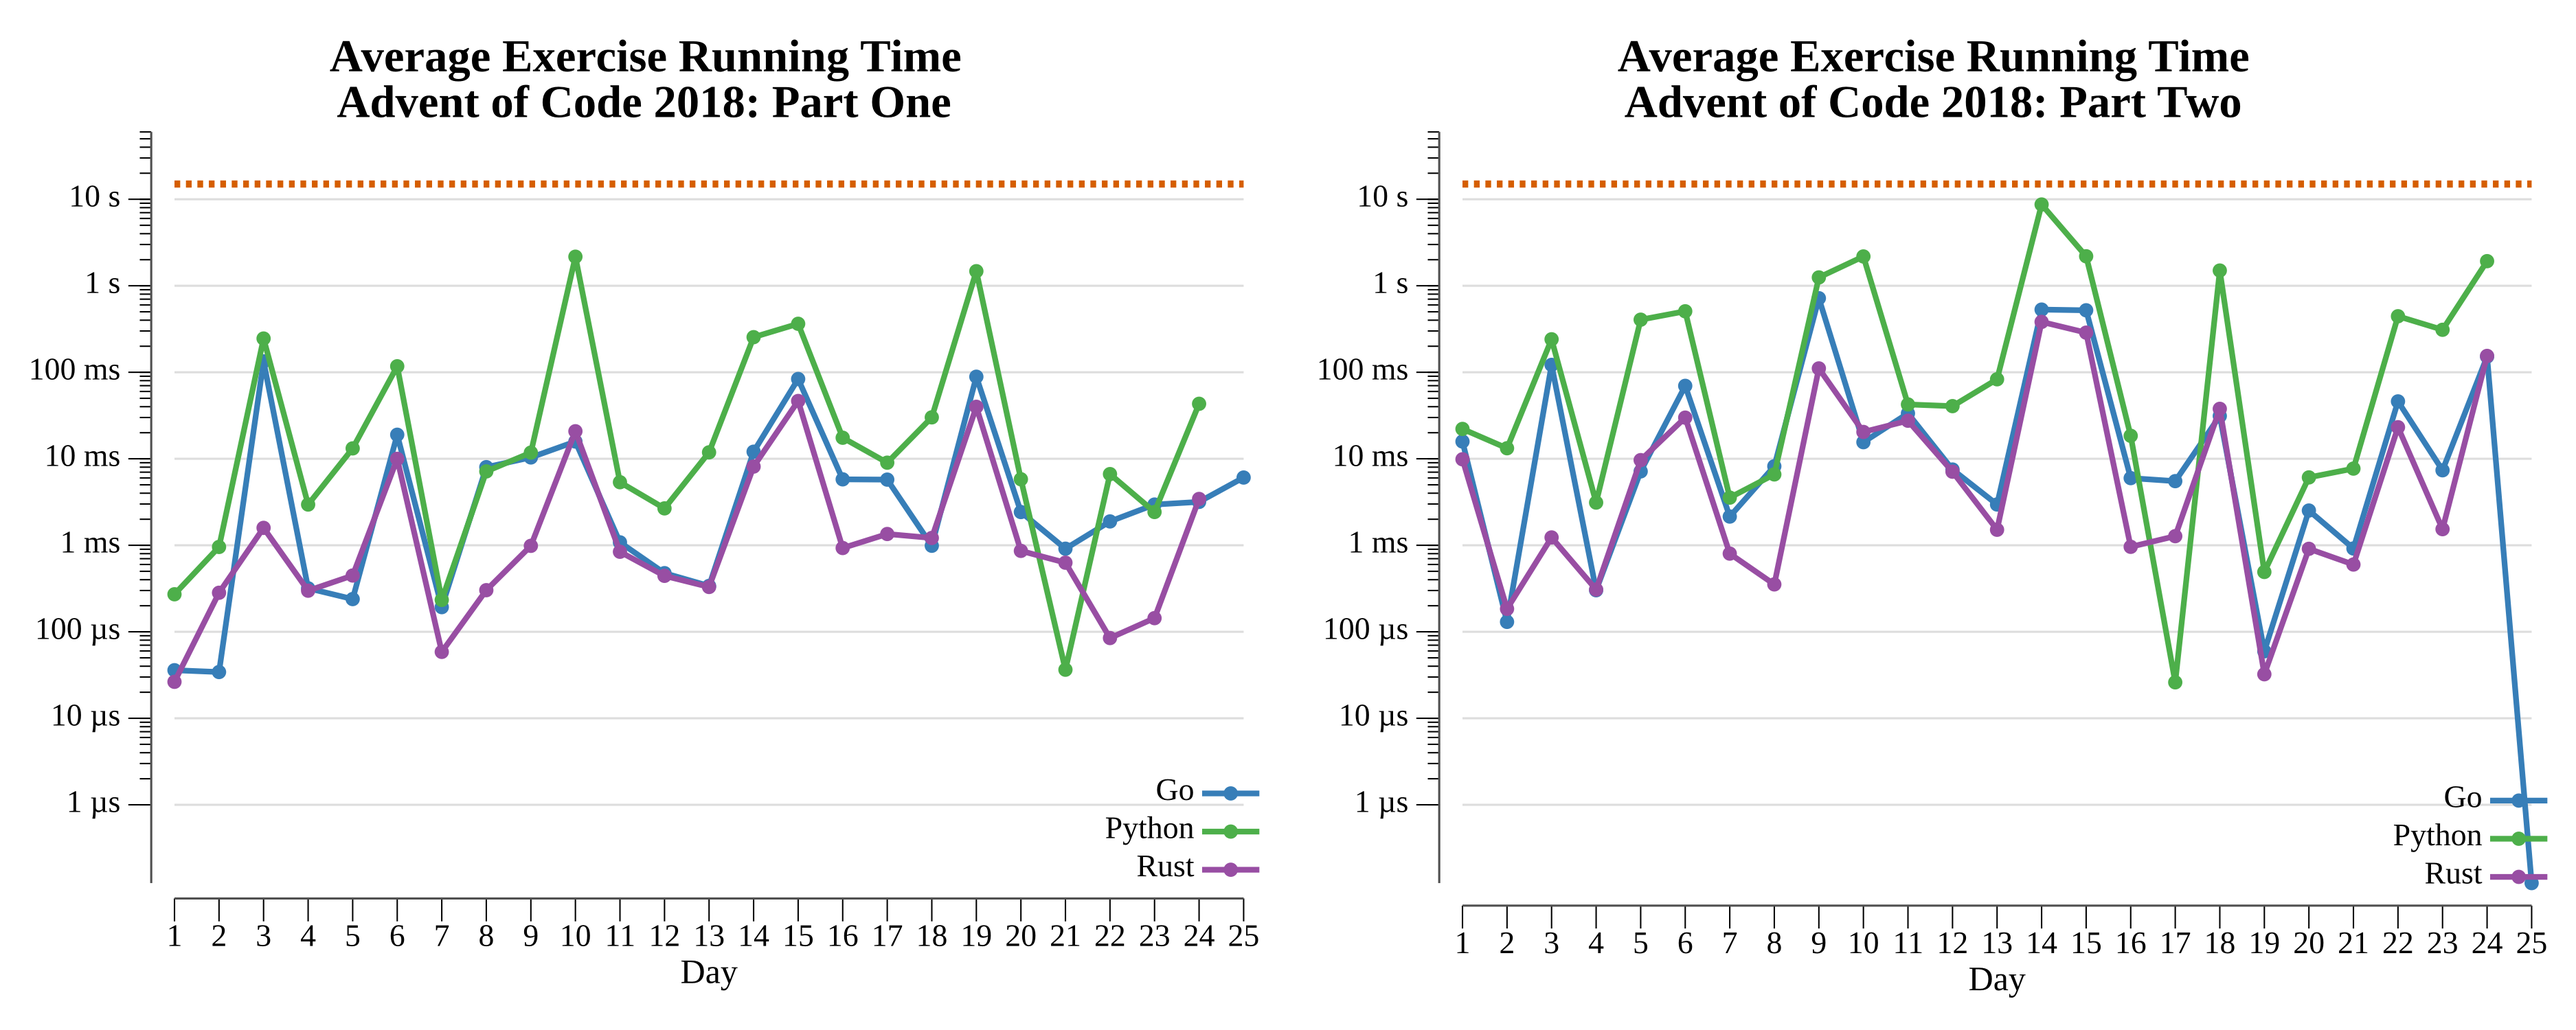
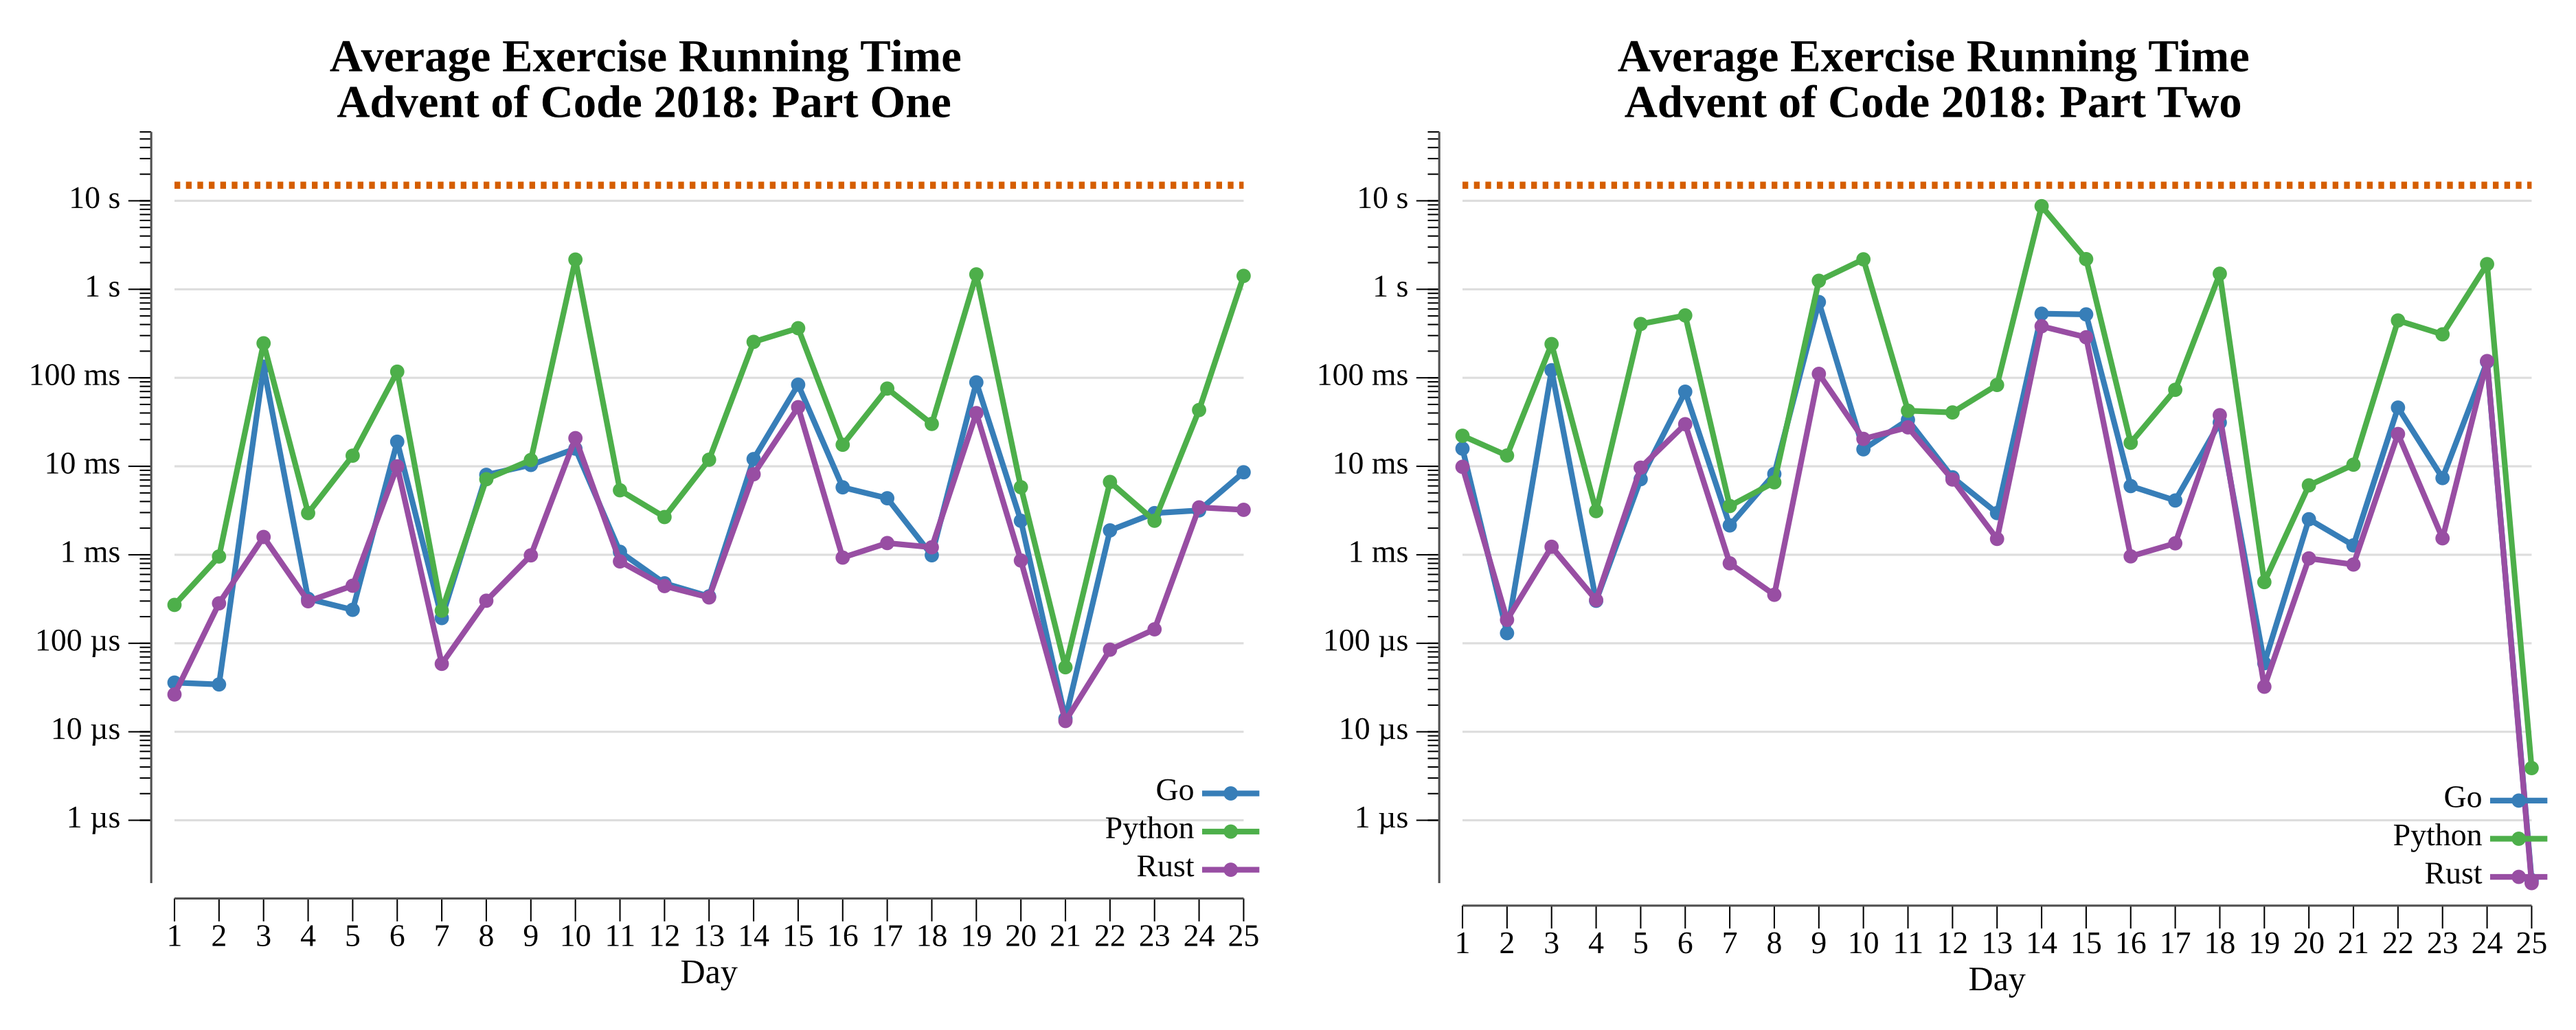
add rust and python to 2018 day 25

diff --git a/exercises/2018/25-four-DimensionalAdventure/rs/src/solution.rs b/exercises/2018/25-four-DimensionalAdventure/rs/src/solution.rs
@@ -1,0 +1,56 @@
+// Solution for Advent of Code 2018 day 25.
+
+type Point = [i32; 4];
+
+fn parse(input: &str) -> Vec<Point> {
+    input
+        .lines()
+        .filter_map(|line| {
+            let mut it = line
+                .split(',')
+                .filter_map(|s| s.trim().parse::<i32>().ok());
+            let p = [it.next()?, it.next()?, it.next()?, it.next()?];
+            Some(p)
+        })
+        .collect()
+}
+
+fn manhattan(a: &Point, b: &Point) -> i32 {
+    (0..4).map(|i| (a[i] - b[i]).abs()).sum()
+}
+
+fn find(parent: &mut [usize], mut x: usize) -> usize {
+    while parent[x] != x {
+        parent[x] = parent[parent[x]]; // path compression
+        x = parent[x];
+    }
+    x
+}
+
+// part_one counts the constellations: connected components of points where any two
+// within Manhattan distance 3 join the same group, via union-find.
+pub fn part_one(input: &str) -> String {
+    let pts = parse(input);
+    let mut parent: Vec<usize> = (0..pts.len()).collect();
+
+    for i in 0..pts.len() {
+        for j in (i + 1)..pts.len() {
+            if manhattan(&pts[i], &pts[j]) <= 3 {
+                let (ri, rj) = (find(&mut parent, i), find(&mut parent, j));
+                parent[ri] = rj;
+            }
+        }
+    }
+
+    let mut roots = std::collections::HashSet::new();
+    for i in 0..pts.len() {
+        let r = find(&mut parent, i);
+        roots.insert(r);
+    }
+    roots.len().to_string()
+}
+
+// part_two is the day 25 finale: no second puzzle, only the closing message.
+pub fn part_two(_input: &str) -> String {
+    "Merry Christmas!".to_string()
+}

diff --git a/exercises/2018/25-four-DimensionalAdventure/py/__init__.py b/exercises/2018/25-four-DimensionalAdventure/py/__init__.py
@@ -1,0 +1,44 @@
+import re
+
+from aocpy import BaseExercise
+
+INT = re.compile(r"-?\d+")
+
+
+def _parse(instr: str) -> list[tuple[int, ...]]:
+    pts = []
+    for line in instr.strip().splitlines():
+        nums = INT.findall(line)
+        if len(nums) == 4:
+            pts.append(tuple(int(n) for n in nums))
+    return pts
+
+
+def _manhattan(a: tuple[int, ...], b: tuple[int, ...]) -> int:
+    return sum(abs(x - y) for x, y in zip(a, b))
+
+
+# Exercise for Advent of Code 2018 day 25.
+class Exercise(BaseExercise):
+    @staticmethod
+    def one(instr: str) -> int:
+        pts = _parse(instr)
+        parent = list(range(len(pts)))
+
+        def find(x: int) -> int:
+            while parent[x] != x:
+                parent[x] = parent[parent[x]]  # path compression
+                x = parent[x]
+            return x
+
+        for i in range(len(pts)):
+            for j in range(i + 1, len(pts)):
+                if _manhattan(pts[i], pts[j]) <= 3:
+                    parent[find(i)] = find(j)
+
+        return len({find(i) for i in range(len(pts))})
+
+    @staticmethod
+    def two(instr: str) -> str:
+        # Day 25 finale: no second puzzle, only the closing message.
+        return "Merry Christmas!"

diff --git a/exercises/2018/25-four-DimensionalAdventure/README.md b/exercises/2018/25-four-DimensionalAdventure/README.md
@@ -4,9 +4,13 @@
 
 [Day 25: Four-Dimensional Adventure][rm25]
 [Go][go25]
+[Rust][rs25]
+[Python][py25]
 
 [rm25]: 25-four-DimensionalAdventure/README.md
 [go25]: 25-four-DimensionalAdventure/go
+[rs25]: 25-four-DimensionalAdventure/rs
+[py25]: 25-four-DimensionalAdventure/py
 
 -->
 
@@ -34,6 +38,43 @@ straightforward connected-components problem.
 Solving (Go)…
 1.0:  PASS             5.909ms
 2.0:  PASS             0.000ms
+```
+
+## Rust
+
+Points are `[i32; 4]` arrays in a `Vec`, and a `Vec<usize>` holds the union-find
+parents. Every pair within Manhattan distance 3 is unioned with path compression,
+and the answer is the number of distinct roots. Part Two is the finale, so
+`part_two` just returns the closing message.
+
+```text
+────────────────────────────────────────
+─    2018 Day 25: Four-Dimensional     ─
+─              Adventure               ─
+────────────────────────────────────────
+
+Solving (Rust)…
+1.0:  PASS             3.053ms
+2.0:  NEW              0.000ms
+      Merry Christmas!
+```
+
+## Python
+
+The same disjoint-set idea with a plain `list` of parents and a nested `find` doing
+path compression; points are integer tuples parsed by scanning every signed integer
+per line. Part Two is the finale and simply returns `Merry Christmas!`.
+
+```text
+────────────────────────────────────────
+─    2018 Day 25: Four-Dimensional     ─
+─              Adventure               ─
+────────────────────────────────────────
+
+Solving (Python)…
+1.0:  PASS              1.475s
+2.0:  NEW               0.000s
+      Merry Christmas!
 ```
 
 ## Visualization

diff --git a/exercises/2018/README.md b/exercises/2018/README.md
@@ -30,7 +30,7 @@
 | [Day 22: Mode Maze](22-modeMaze/README.md) |  ★ ★  | [Go](22-modeMaze/go) · [Rust](22-modeMaze/rs) · [Python](22-modeMaze/py) |
 | [Day 23: Experimental Emergency Teleportation](23-experimentalEmergencyTeleportation/README.md) |  ★ ★  | [Go](23-experimentalEmergencyTeleportation/go) · [Rust](23-experimentalEmergencyTeleportation/rs) · [Python](23-experimentalEmergencyTeleportation/py) |
 | [Day 24: Immune System Simulator 20XX](24-immuneSystemSimulator20XX/README.md) |  ★ ★  | [Go](24-immuneSystemSimulator20XX/go) · [Rust](24-immuneSystemSimulator20XX/rs) · [Python](24-immuneSystemSimulator20XX/py) |
-| [Day 25: Four-Dimensional Adventure](25-four-DimensionalAdventure/README.md) |  ★ ★  | [Go](25-four-DimensionalAdventure/go) |
+| [Day 25: Four-Dimensional Adventure](25-four-DimensionalAdventure/README.md) |  ★ ★  | [Go](25-four-DimensionalAdventure/go) · [Rust](25-four-DimensionalAdventure/rs) · [Python](25-four-DimensionalAdventure/py) |
 
 ## 2018 Run Times
 
